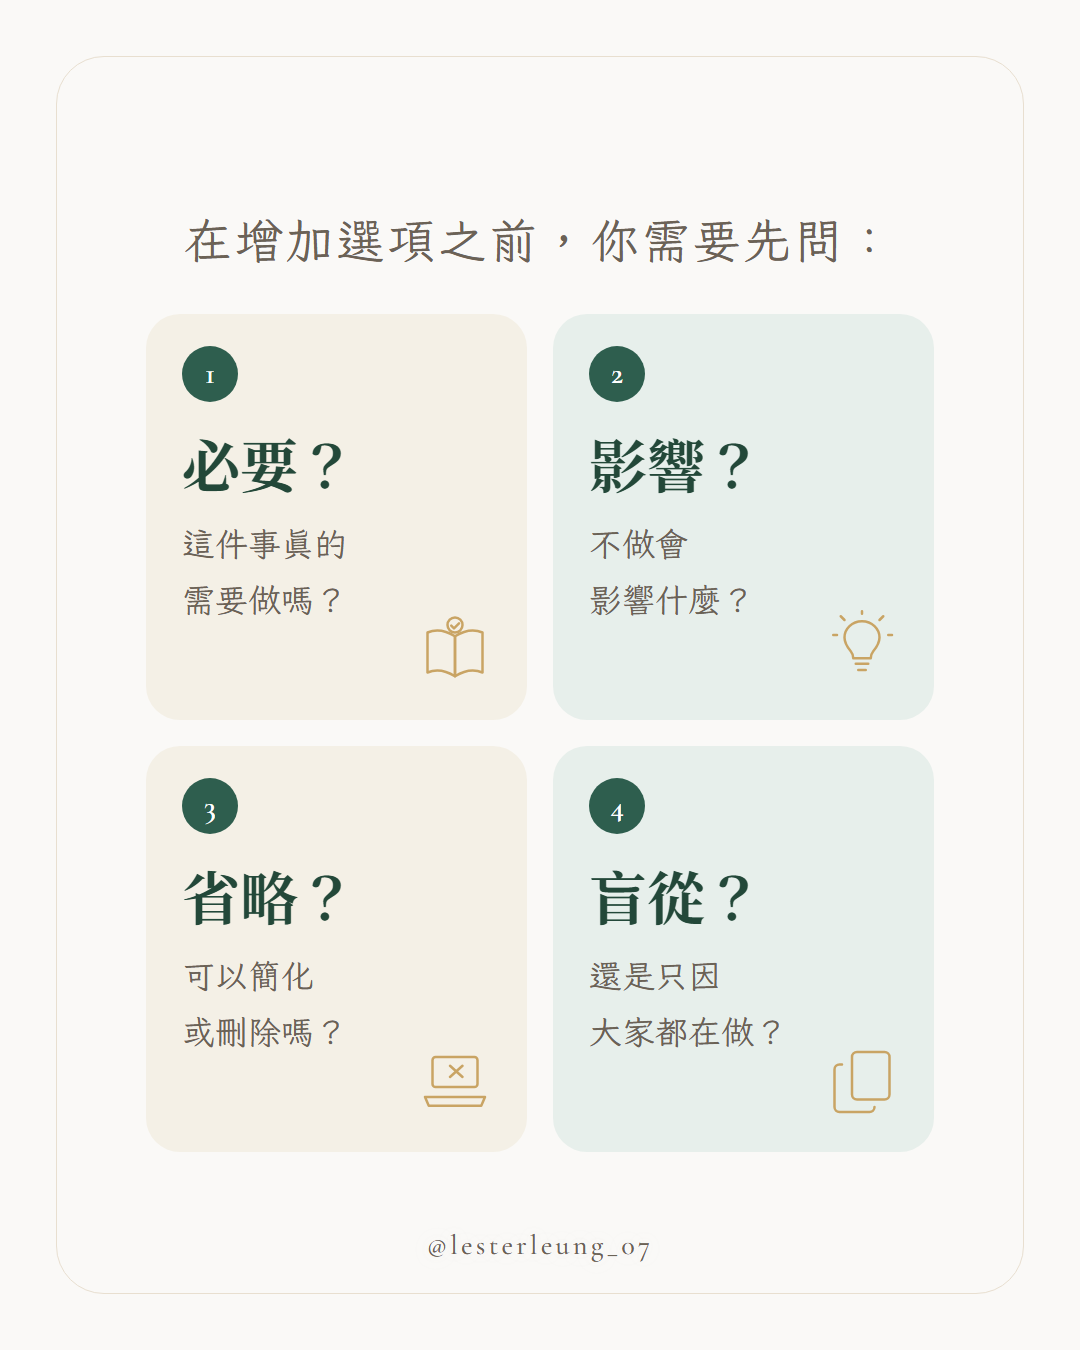
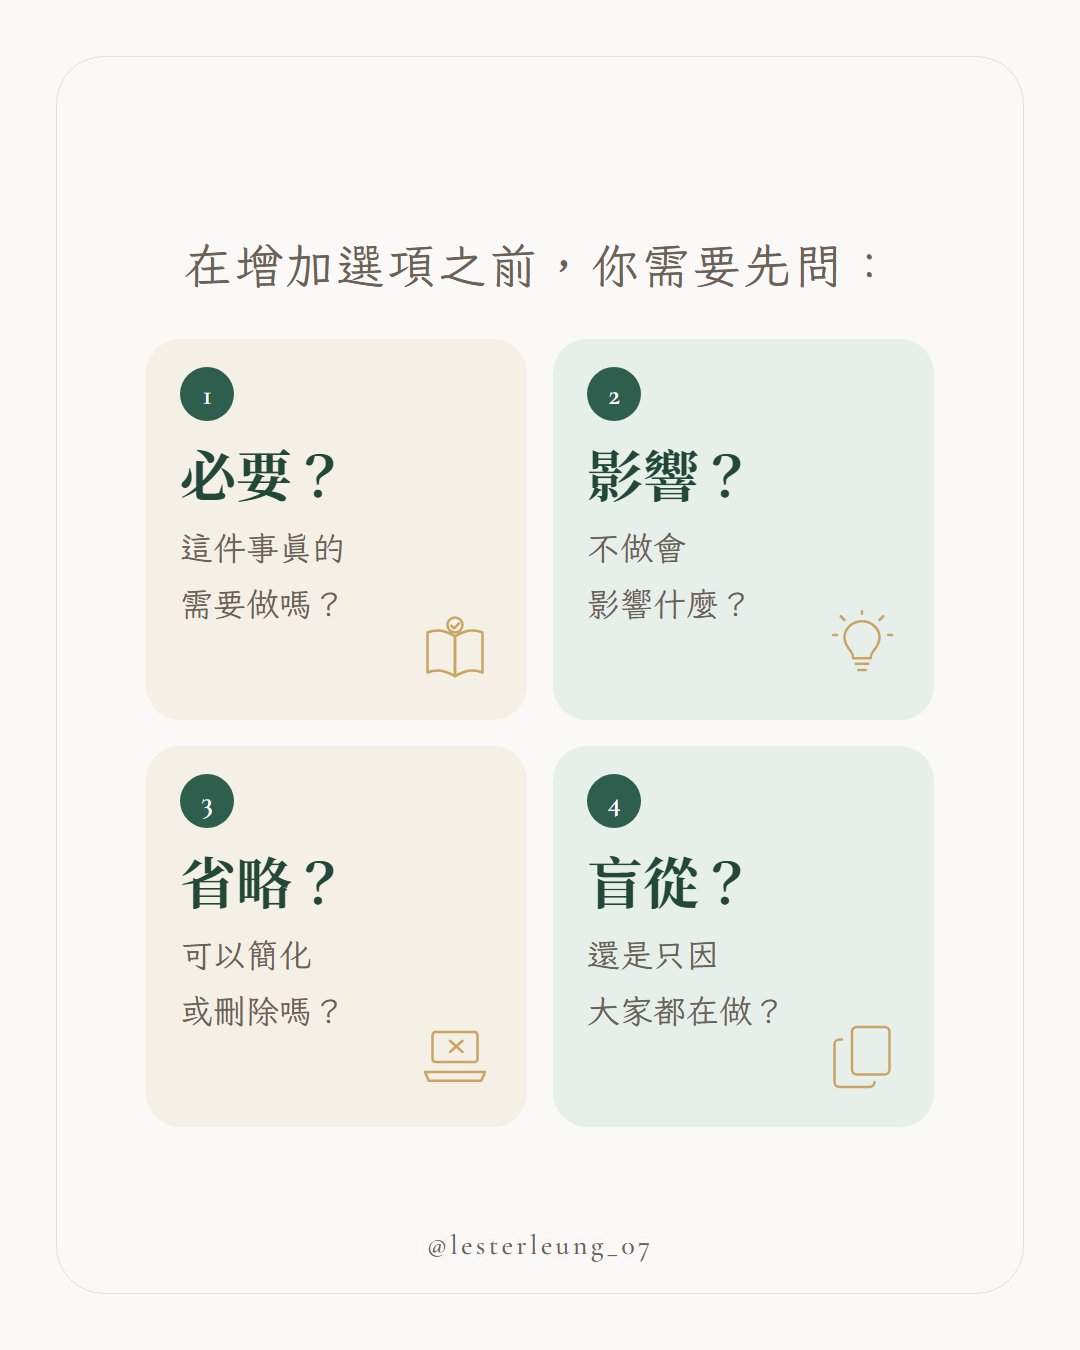
fix: 關鍵字上色破壞 DOM 結構 + 引號清單 flex 壓字
三處修正，都是「畫面看不太出來但排版會走樣」的類型：

1. locate() 索引邊界算錯（主因）
   索引剛好落在文字節點結尾時，原本對到「前一個節點的結尾」，
   使 Range 跨出元素邊界，extractContents() 只好複製整棵子樹——
   例：<em><span class="pill-sm">成功學</span></em> + 一個被掏空的 span。
   修法：起點偏好「下一節點的 offset 0」、終點偏好「本節點的結尾」，
   視覺位置相同但不跨元素。另外純空白節點不可作為配對位置。

2. 引號清單改為 block 佈局
   .quote-list li 原本是 flex，關鍵字被包成 <em> 後變成 flex item 被壓扁，
   出現「一個字一行」。改用 block + 絕對定位數字 badge。

3. 檢查工具加上結構完整性驗證
   check-orphans.py 現在會檢查 <em> 是否直接包住元素、以及該有文字的
   類別是否被掏空（用白名單避免 .divider 等裝飾誤判）。
   實測：好檔通過 / 故意做壞的檔被抓到 / 舊貼文回歸通過。

順帶把 2×2 卡片格的內距與字級收緊，讓四格內容更從容。

diff --git a/assets/template.html b/assets/template.html
@@ -146,10 +146,10 @@ em{font-style:normal;color:var(--gold);}
 .split .col-pills{display:flex;flex-direction:column;gap:20px;flex:0 0 auto;}
 /* 2×2 編號卡片格（參考圖 2） */
 .grid2x2{display:grid;grid-template-columns:1fr 1fr;gap:26px;width:100%;}
-.grid2x2 .cell{position:relative;background:var(--paper);border-radius:34px;padding:32px 36px 92px;text-align:left;min-height:312px;}
+.grid2x2 .cell{position:relative;background:var(--paper);border-radius:34px;padding:28px 34px 88px;text-align:left;min-height:290px;}
 .grid2x2 .cell:nth-child(even){background:var(--forest-tint);}
-.grid2x2 .cell-num{display:inline-flex;align-items:center;justify-content:center;width:56px;height:56px;border-radius:50%;background:var(--forest);color:#fff;font-family:var(--font-en);font-size:30px;font-weight:600;margin-bottom:22px;}
-.grid2x2 .cell-word{font-family:var(--font-title);font-size:58px;font-weight:700;color:var(--forest-deep);line-height:1.35;margin-bottom:14px;}
+.grid2x2 .cell-num{display:inline-flex;align-items:center;justify-content:center;width:54px;height:54px;border-radius:50%;background:var(--forest);color:#fff;font-family:var(--font-en);font-size:29px;font-weight:600;margin-bottom:16px;}
+.grid2x2 .cell-word{font-family:var(--font-title);font-size:56px;font-weight:700;color:var(--forest-deep);line-height:1.3;margin-bottom:10px;}
 .grid2x2 .cell-desc{font-family:var(--font-soft);font-size:33px;line-height:1.7;color:var(--ink-soft);}
 .grid2x2 .illo-icon{position:absolute;right:32px;bottom:30px;width:80px;height:80px;}
 
@@ -157,7 +157,8 @@ em{font-style:normal;color:var(--gold);}
 .note-box{background:var(--paper);border-radius:32px;padding:46px 66px;font-family:var(--font-hand);font-size:48px;line-height:1.95;color:var(--forest-soft);letter-spacing:.08em;font-weight:400;text-align:center;}
 .num{display:inline-flex;align-items:center;justify-content:center;width:64px;height:64px;border-radius:50%;flex-shrink:0;background:var(--forest);color:#fff;font-family:var(--font-en);font-size:34px;font-weight:600;}
 .quote-list{list-style:none;display:flex;flex-direction:column;gap:36px;text-align:left;}
-.quote-list li{display:flex;align-items:center;gap:36px;font-family:var(--font-title);font-size:52px;font-weight:700;color:var(--forest-deep);line-height:1.6;}
+.quote-list li{display:block;position:relative;padding-left:100px;font-family:var(--font-title);font-size:52px;font-weight:700;color:var(--forest-deep);line-height:1.6;}
+.quote-list li .num{position:absolute;left:0;top:50%;transform:translateY(-50%);}
 .grid4{display:flex;gap:24px;width:100%;justify-content:center;margin:48px 0;}
 .grid4 .cell{flex:1;max-width:196px;background:var(--forest-tint);border-radius:28px;padding:34px 12px 36px;display:flex;flex-direction:column;align-items:center;gap:20px;}
 .grid4 .cell:nth-child(even){background:var(--paper);}
@@ -608,8 +609,9 @@ function findMatch(root, word){
   var flat = '', map = [];
   nodes.forEach(function(n){
     var inEm = !!(n.parentElement && n.parentElement.closest && n.parentElement.closest('em'));
+    var blank = !n.nodeValue.trim();           // 純空白（排版縮排）不可作為配對位置
     var v = n.nodeValue;
-    for (var i = 0; i < v.length; i++) { flat += v[i]; map.push(inEm); }
+    for (var i = 0; i < v.length; i++) { flat += v[i]; map.push(inEm || blank); }
   });
   var from = 0;
   while (true) {
@@ -621,15 +623,27 @@ function findMatch(root, word){
     from = idx + 1;
   }
 }
-/** 攤平後的第 index 個字 → 對應到 {node, offset} */
-function locate(root, index){
+/**
+ * 攤平後的第 index 個字 → 對應到 {node, offset}
+ * 注意邊界：index 剛好等於某節點結尾時，要取「下一個節點的 offset 0」。
+ * 若取成前一個節點的結尾，Range 會跨過元素邊界，extractContents() 就會
+ * 把整個子樹複製一份（例：<em><span class="pill">字</span></em> + 空 span）。
+ */
+function locate(root, index, preferNext){
   var acc = 0, nodes = textNodesIn(root);
   for (var i = 0; i < nodes.length; i++) {
     var len = nodes[i].nodeValue.length;
-    if (index <= acc + len) return { node: nodes[i], offset: index - acc };
+    if (index < acc + len) return { node: nodes[i], offset: index - acc };
+    if (index === acc + len) {
+      // 起點用「下一個節點的 0」、終點用「本節點的結尾」——
+      // 兩者視覺位置相同，但這樣 Range 才不會跨出元素，避免 extractContents 複製子樹
+      if (preferNext && nodes[i + 1]) return { node: nodes[i + 1], offset: 0 };
+      return { node: nodes[i], offset: len };
+    }
     acc += len;
   }
-  return null;
+  var last = nodes[nodes.length - 1];
+  return last ? { node: last, offset: last.nodeValue.length } : null;
 }
 /**
  * 依 IG_CONFIG.keywords 重新幫文字上金色。
@@ -647,7 +661,7 @@ function applyKeywords(){
       while (guard++ < 30) {
         var idx = findMatch(ct, word);
         if (idx < 0) break;
-        var s = locate(ct, idx), e = locate(ct, idx + word.length);
+        var s = locate(ct, idx, true), e = locate(ct, idx + word.length, false);
         if (!s || !e) break;
         var r = document.createRange();
         r.setStart(s.node, s.offset);

diff --git a/examples/demo.html b/examples/demo.html
@@ -146,10 +146,10 @@ em{font-style:normal;color:var(--gold);}
 .split .col-pills{display:flex;flex-direction:column;gap:20px;flex:0 0 auto;}
 /* 2×2 編號卡片格（參考圖 2） */
 .grid2x2{display:grid;grid-template-columns:1fr 1fr;gap:26px;width:100%;}
-.grid2x2 .cell{position:relative;background:var(--paper);border-radius:34px;padding:32px 36px 92px;text-align:left;min-height:312px;}
+.grid2x2 .cell{position:relative;background:var(--paper);border-radius:34px;padding:28px 34px 88px;text-align:left;min-height:290px;}
 .grid2x2 .cell:nth-child(even){background:var(--forest-tint);}
-.grid2x2 .cell-num{display:inline-flex;align-items:center;justify-content:center;width:56px;height:56px;border-radius:50%;background:var(--forest);color:#fff;font-family:var(--font-en);font-size:30px;font-weight:600;margin-bottom:22px;}
-.grid2x2 .cell-word{font-family:var(--font-title);font-size:58px;font-weight:700;color:var(--forest-deep);line-height:1.35;margin-bottom:14px;}
+.grid2x2 .cell-num{display:inline-flex;align-items:center;justify-content:center;width:54px;height:54px;border-radius:50%;background:var(--forest);color:#fff;font-family:var(--font-en);font-size:29px;font-weight:600;margin-bottom:16px;}
+.grid2x2 .cell-word{font-family:var(--font-title);font-size:56px;font-weight:700;color:var(--forest-deep);line-height:1.3;margin-bottom:10px;}
 .grid2x2 .cell-desc{font-family:var(--font-soft);font-size:33px;line-height:1.7;color:var(--ink-soft);}
 .grid2x2 .illo-icon{position:absolute;right:32px;bottom:30px;width:80px;height:80px;}
 
@@ -157,7 +157,8 @@ em{font-style:normal;color:var(--gold);}
 .note-box{background:var(--paper);border-radius:32px;padding:46px 66px;font-family:var(--font-hand);font-size:48px;line-height:1.95;color:var(--forest-soft);letter-spacing:.08em;font-weight:400;text-align:center;}
 .num{display:inline-flex;align-items:center;justify-content:center;width:64px;height:64px;border-radius:50%;flex-shrink:0;background:var(--forest);color:#fff;font-family:var(--font-en);font-size:34px;font-weight:600;}
 .quote-list{list-style:none;display:flex;flex-direction:column;gap:36px;text-align:left;}
-.quote-list li{display:flex;align-items:center;gap:36px;font-family:var(--font-title);font-size:52px;font-weight:700;color:var(--forest-deep);line-height:1.6;}
+.quote-list li{display:block;position:relative;padding-left:100px;font-family:var(--font-title);font-size:52px;font-weight:700;color:var(--forest-deep);line-height:1.6;}
+.quote-list li .num{position:absolute;left:0;top:50%;transform:translateY(-50%);}
 .grid4{display:flex;gap:24px;width:100%;justify-content:center;margin:48px 0;}
 .grid4 .cell{flex:1;max-width:196px;background:var(--forest-tint);border-radius:28px;padding:34px 12px 36px;display:flex;flex-direction:column;align-items:center;gap:20px;}
 .grid4 .cell:nth-child(even){background:var(--paper);}
@@ -608,8 +609,9 @@ function findMatch(root, word){
   var flat = '', map = [];
   nodes.forEach(function(n){
     var inEm = !!(n.parentElement && n.parentElement.closest && n.parentElement.closest('em'));
+    var blank = !n.nodeValue.trim();           // 純空白（排版縮排）不可作為配對位置
     var v = n.nodeValue;
-    for (var i = 0; i < v.length; i++) { flat += v[i]; map.push(inEm); }
+    for (var i = 0; i < v.length; i++) { flat += v[i]; map.push(inEm || blank); }
   });
   var from = 0;
   while (true) {
@@ -621,15 +623,27 @@ function findMatch(root, word){
     from = idx + 1;
   }
 }
-/** 攤平後的第 index 個字 → 對應到 {node, offset} */
-function locate(root, index){
+/**
+ * 攤平後的第 index 個字 → 對應到 {node, offset}
+ * 注意邊界：index 剛好等於某節點結尾時，要取「下一個節點的 offset 0」。
+ * 若取成前一個節點的結尾，Range 會跨過元素邊界，extractContents() 就會
+ * 把整個子樹複製一份（例：<em><span class="pill">字</span></em> + 空 span）。
+ */
+function locate(root, index, preferNext){
   var acc = 0, nodes = textNodesIn(root);
   for (var i = 0; i < nodes.length; i++) {
     var len = nodes[i].nodeValue.length;
-    if (index <= acc + len) return { node: nodes[i], offset: index - acc };
+    if (index < acc + len) return { node: nodes[i], offset: index - acc };
+    if (index === acc + len) {
+      // 起點用「下一個節點的 0」、終點用「本節點的結尾」——
+      // 兩者視覺位置相同，但這樣 Range 才不會跨出元素，避免 extractContents 複製子樹
+      if (preferNext && nodes[i + 1]) return { node: nodes[i + 1], offset: 0 };
+      return { node: nodes[i], offset: len };
+    }
     acc += len;
   }
-  return null;
+  var last = nodes[nodes.length - 1];
+  return last ? { node: last, offset: last.nodeValue.length } : null;
 }
 /**
  * 依 IG_CONFIG.keywords 重新幫文字上金色。
@@ -647,7 +661,7 @@ function applyKeywords(){
       while (guard++ < 30) {
         var idx = findMatch(ct, word);
         if (idx < 0) break;
-        var s = locate(ct, idx), e = locate(ct, idx + word.length);
+        var s = locate(ct, idx, true), e = locate(ct, idx + word.length, false);
         if (!s || !e) break;
         var r = document.createRange();
         r.setStart(s.node, s.offset);

diff --git a/scripts/check-orphans.py b/scripts/check-orphans.py
@@ -118,7 +118,24 @@ PROBE_TEMPLATE = r"""
         }
       }
     });
-    finish({ report: report, skipped: skipped });
+    // 結構完整性：關鍵字上色（Range + extractContents）若位置算錯，
+    // 會把整個子樹複製進 <em>（例如 <em><span class="pill">字</span></em> + 空 span）。
+    // 這種破損畫面上幾乎看不出來，但會讓藥丸變窄、文字換行錯亂。
+    var struct = { badWrap: [], empty: [] };
+    document.querySelectorAll('.card .content em').forEach(function(em){
+      var bad = em.querySelector(':scope > span, :scope > div, :scope > p, :scope > img, :scope > svg');
+      if (bad) struct.badWrap.push((bad.className || bad.tagName) + ' ← ' + em.textContent.slice(0, 12));
+    });
+    // 只檢查「本來就該有文字」的類別，避免裝飾元素（.divider 等）誤判
+    var NEEDS_TEXT = '.pill,.pill-sm,.para,.mini-body,.hook-title,.hook-sub,.hook-cta,'
+                   + '.statement-kicker,.statement-lead,.statement-body,.quote-list li,'
+                   + '.note-box,.cell-word,.cell-desc,.list-intro,.kicker,.hand-line,'
+                   + '.open-title,.big-2line,.circled-text,.sticky span,.handle';
+    document.querySelectorAll('.card .content ' + NEEDS_TEXT).forEach(function(el){
+      if (el.querySelector('img, svg')) return;
+      if (!el.textContent.trim()) struct.empty.push(el.className || el.tagName);
+    });
+    finish({ report: report, skipped: skipped, struct: struct });
   }
   if (document.fonts && document.fonts.ready) {
     document.fonts.ready.then(function(){ setTimeout(run, 1200); });
@@ -198,8 +215,18 @@ def main():
         sys.exit(2)
     report = payload.get("report", [])
     skipped = payload.get("skipped", 0)
+    struct = payload.get("struct", {"badWrap": [], "empty": []})
     if skipped:
         print(f"（已跳過 {skipped} 個旋轉／標記元素，逐字分行對它們不適用）")
+
+    if struct["badWrap"] or struct["empty"]:
+        print("✗ 關鍵字上色破壞了 DOM 結構（畫面上不易察覺，但會讓排版走樣）：")
+        for b in struct["badWrap"][:8]:
+            print(f"    <em> 直接包住了元素：{b}")
+        for e in struct["empty"][:8]:
+            print(f"    空元素殘留（被掏空）：{e}")
+        print("    成因通常是索引落點算錯、Range 跨出元素邊界。")
+        sys.exit(1)
 
     if not report:
         print(f"✓ 沒有孤字。所有多行文字區塊每行都 ≥ {args.min_chars} 個字。")
